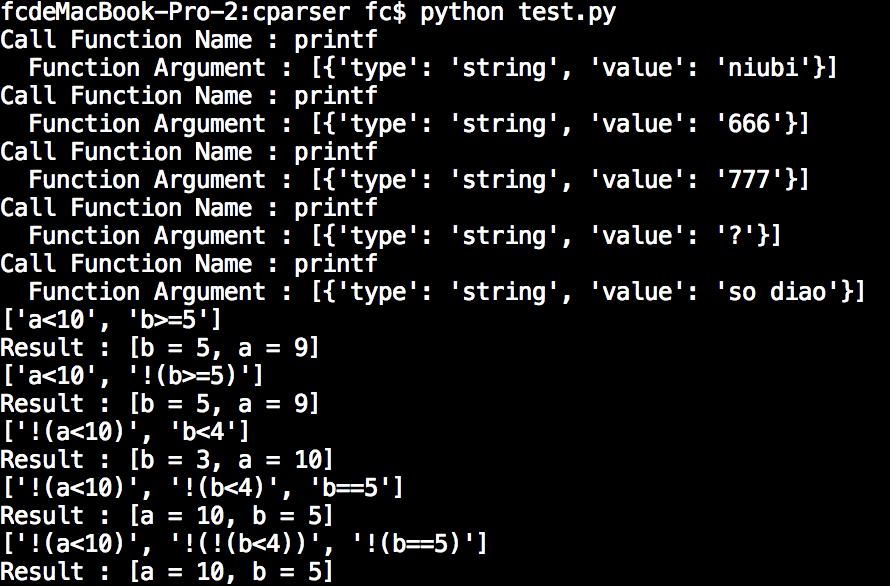
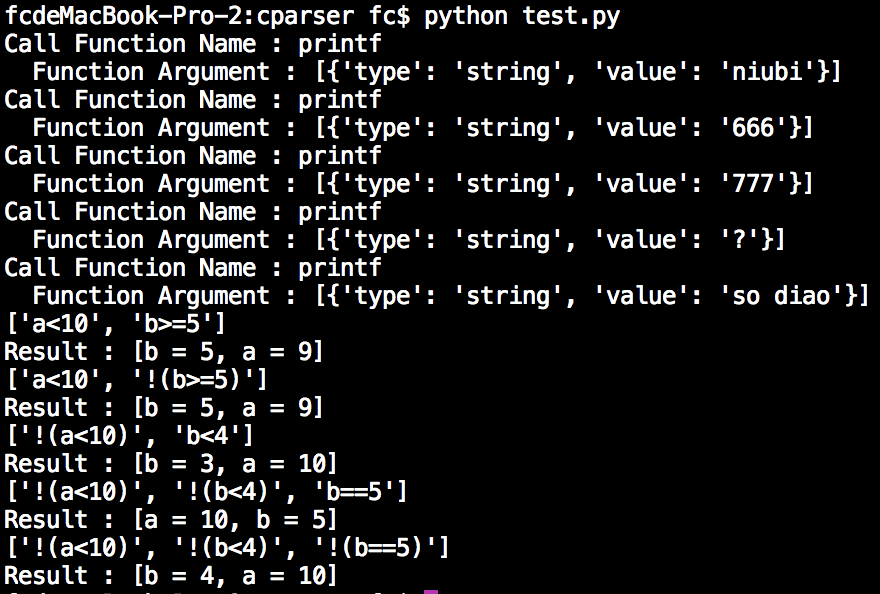
.

Changed region(s): [[0.0, 0.0, 1.0, 1.0], [0.4602, 0.9829, 0.4909, 1.0]]

diff --git a/6.静态程序分析原理.md b/6.静态程序分析原理.md
@@ -1143,18 +1143,15 @@ from z3 import *
 def adjust_calculate(calculate_string) :
     if calculate_string.startswith('!(') :
         calculate_string = calculate_string[ calculate_string.find('!(') + 2 : calculate_string.rfind(')') ]
-
-        if calculate_string.startswith('!(') :
-            calculate_string = adjust_calculate(calculate_string)
-
         calculate_string = calculate_string.replace('==','!=')
-        calculate_string = calculate_string.replace('!=','==')
+        #calculate_string = calculate_string.replace('!=','==')  #  ...
         calculate_string = calculate_string.replace('<','>=')
         calculate_string = calculate_string.replace('>','<=')
         calculate_string = calculate_string.replace('>=','<')
         calculate_string = calculate_string.replace('<=','>')
 
     return calculate_string
+
 
 test_code = '''
 int main(int argc,int argv) {
